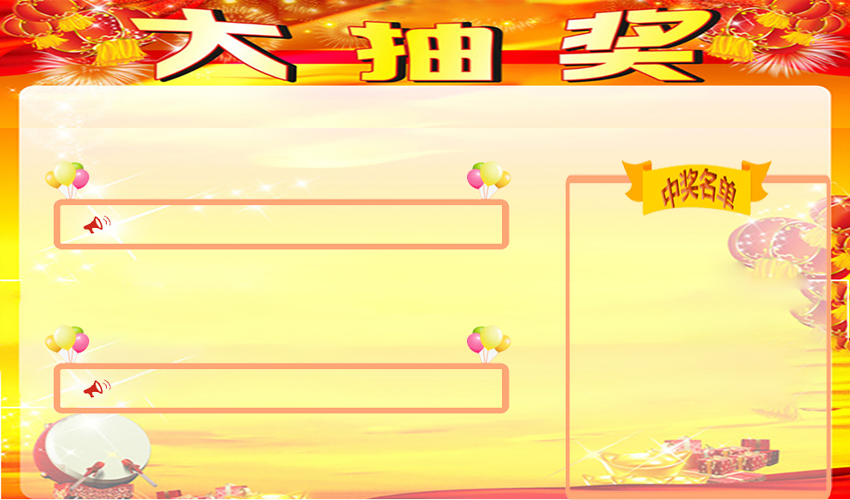
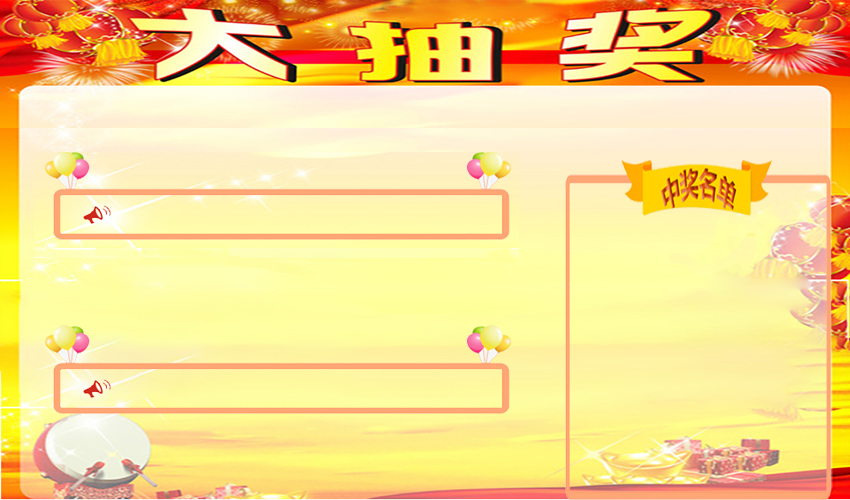
微调抽奖页

Changed region(s): [[0.0306, 0.3, 0.6118, 0.51], [0.8565, 0.42, 0.9482, 0.54]]

diff --git a/LuckyDraw/FmDrawStart.Designer.cs b/LuckyDraw/FmDrawStart.Designer.cs
@@ -68,7 +68,7 @@
             this.label2.Cursor = System.Windows.Forms.Cursors.Default;
             this.label2.Font = new System.Drawing.Font("微软雅黑", 15F, System.Drawing.FontStyle.Regular, System.Drawing.GraphicsUnit.Point, ((byte)(134)));
             this.label2.ForeColor = System.Drawing.Color.FromArgb(((int)(((byte)(255)))), ((int)(((byte)(128)))), ((int)(((byte)(0)))));
-            this.label2.Location = new System.Drawing.Point(54, 199);
+            this.label2.Location = new System.Drawing.Point(54, 194);
             this.label2.Name = "label2";
             this.label2.Size = new System.Drawing.Size(454, 43);
             this.label2.TabIndex = 4;
@@ -81,12 +81,12 @@
             this.button1.BackgroundImage = global::LuckyDraw.Properties.Resources.start;
             this.button1.BackgroundImageLayout = System.Windows.Forms.ImageLayout.Stretch;
             this.button1.FlatAppearance.BorderSize = 0;
-            this.button1.FlatAppearance.MouseDownBackColor = System.Drawing.Color.FromArgb(((int)(((byte)(255)))), ((int)(((byte)(255)))), ((int)(((byte)(165)))));
+            this.button1.FlatAppearance.MouseDownBackColor = System.Drawing.Color.Transparent;
             this.button1.FlatAppearance.MouseOverBackColor = System.Drawing.Color.Transparent;
             this.button1.FlatStyle = System.Windows.Forms.FlatStyle.Flat;
-            this.button1.Location = new System.Drawing.Point(220, 259);
+            this.button1.Location = new System.Drawing.Point(220, 251);
             this.button1.Name = "button1";
-            this.button1.Size = new System.Drawing.Size(111, 101);
+            this.button1.Size = new System.Drawing.Size(103, 96);
             this.button1.TabIndex = 5;
             this.button1.UseVisualStyleBackColor = false;
             // 

diff --git a/LuckyDraw/Program.cs b/LuckyDraw/Program.cs
@@ -1,6 +1,4 @@
 using System;
-using System.Collections.Generic;
-using System.Linq;
 using System.Windows.Forms;
 
 namespace LuckyDraw {
